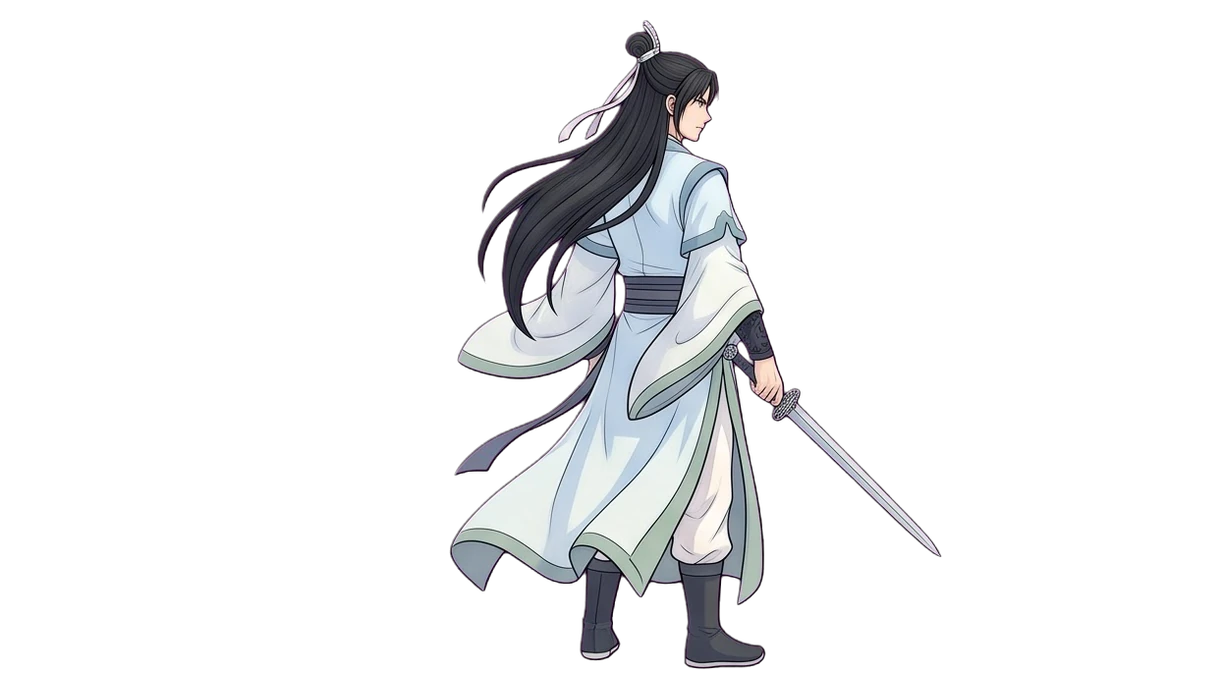
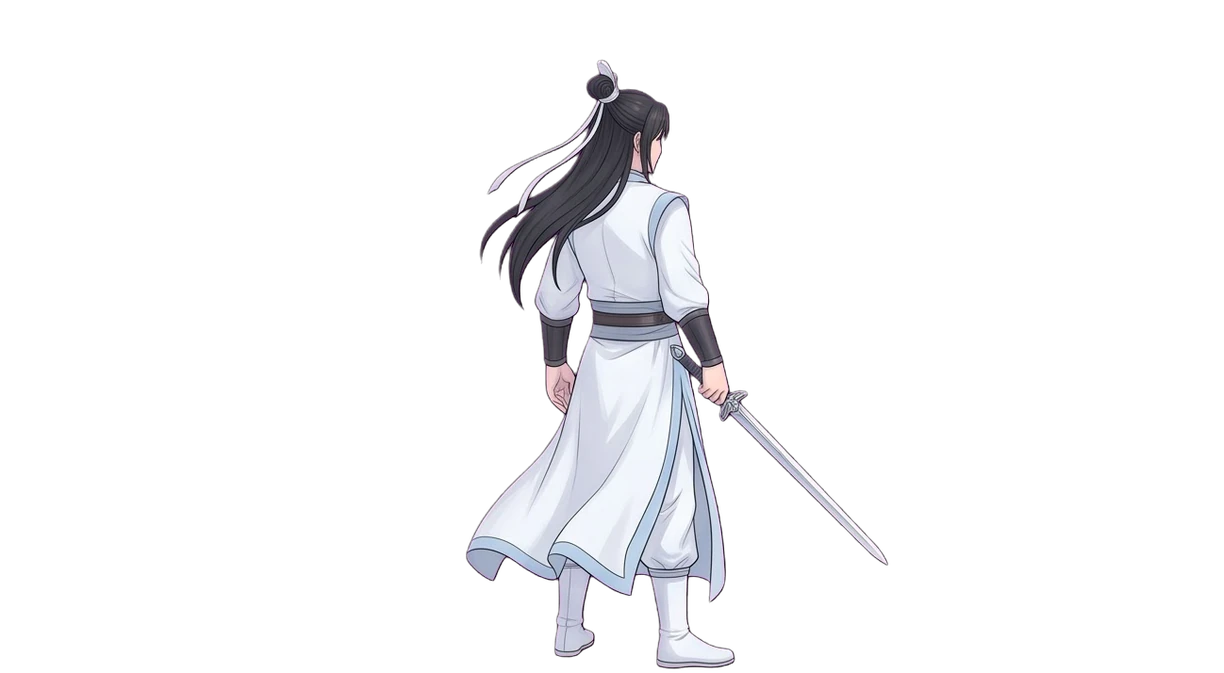
最終版133:男主四套外觀戰鬥背影、本命特寫、選招半身
Claude-Session: https://claude.ai/code/session_01Eudv1bj25nFF4NszqJcvVs

Changed region(s): [[0.3415, 0.0312, 0.7451, 0.9985], [0.7141, 0.7801, 0.7761, 0.8425]]

diff --git a/index.html b/index.html
@@ -16405,13 +16405,13 @@ window.SFX = (() => {
 })();
 
 /* v115 主角背面戰鬥動作圖(重要戰鬥用) */
-window.BP114 = {"F_o1_1": "assets/BP/F_o1_1.webp?v=845711f1", "F_o1_2": "assets/BP/F_o1_2.webp?v=63e0ea8a", "F_o1_3": "assets/BP/F_o1_3.webp?v=4c8fedf0", "F_o1_4": "assets/BP/F_o1_4.webp?v=2d3a9938", "F_o1_5": "assets/BP/F_o1_5.webp?v=39089390", "F_o1_6": "assets/BP/F_o1_6.webp?v=665fdf49", "F_o1_7": "assets/BP/F_o1_7.webp?v=a421ed48", "F_o1_8": "assets/BP/F_o1_8.webp?v=46d02e9f", "F_o1_9": "assets/BP/F_o1_9.webp?v=71e7e51b", "F_o2_1": "assets/BP/F_o2_1.webp?v=05a69ca3", "F_o2_2": "assets/BP/F_o2_2.webp?v=b4ad1367", "F_o2_3": "assets/BP/F_o2_3.webp?v=5b5c3b9e", "F_o2_4": "assets/BP/F_o2_4.webp?v=675eb247", "F_o2_5": "assets/BP/F_o2_5.webp?v=3e6b4256", "F_o2_6": "assets/BP/F_o2_6.webp?v=a83ed8f2", "F_o2_7": "assets/BP/F_o2_7.webp?v=5385903d", "F_o2_8": "assets/BP/F_o2_8.webp?v=813db133", "F_o2_9": "assets/BP/F_o2_9.webp?v=fe97a297", "F_o3_1": "assets/BP/F_o3_1.webp?v=bb0a3107", "F_o3_2": "assets/BP/F_o3_2.webp?v=427aa689", "F_o3_3": "assets/BP/F_o3_3.webp?v=85f7357a", "F_o3_4": "assets/BP/F_o3_4.webp?v=72153950", "F_o3_5": "assets/BP/F_o3_5.webp?v=667aea18", "F_o3_6": "assets/BP/F_o3_6.webp?v=0a9314ea", "F_o3_7": "assets/BP/F_o3_7.webp?v=e8cbb446", "F_o3_8": "assets/BP/F_o3_8.webp?v=b0c55eaa", "F_o3_9": "assets/BP/F_o3_9.webp?v=72363e9e", "F_o4_1": "assets/BP/F_o4_1.webp?v=0a7498b0", "F_o4_2": "assets/BP/F_o4_2.webp?v=0d6c24b1", "F_o4_3": "assets/BP/F_o4_3.webp?v=64f0bf7d", "F_o4_4": "assets/BP/F_o4_4.webp?v=ee9cef42", "F_o4_5": "assets/BP/F_o4_5.webp?v=1df47660", "F_o4_6": "assets/BP/F_o4_6.webp?v=7e19d22c", "F_o4_7": "assets/BP/F_o4_7.webp?v=23243e00", "F_o4_8": "assets/BP/F_o4_8.webp?v=41ff7a57", "F_o4_9": "assets/BP/F_o4_9.webp?v=fdd62696", "F_o5_1": "assets/BP/F_o5_1.webp?v=1acbb409", "F_o5_2": "assets/BP/F_o5_2.webp?v=057ef934", "F_o5_3": "assets/BP/F_o5_3.webp?v=8cf69a7a", "F_o5_4": "assets/BP/F_o5_4.webp?v=83b6597d", "F_o5_5": "assets/BP/F_o5_5.webp?v=2527e5a5", "F_o5_6": "assets/BP/F_o5_6.webp?v=67d0d5f1", "F_o5_7": "assets/BP/F_o5_7.webp?v=4fe41938", "F_o5_8": "assets/BP/F_o5_8.webp?v=a7d74ed8", "F_o5_9": "assets/BP/F_o5_9.webp?v=3954470c", "M_o1_1": "assets/BP/M_o1_1.webp?v=2560faa7", "M_o1_2": "assets/BP/M_o1_2.webp?v=7ad66686", "M_o1_3": "assets/BP/M_o1_3.webp?v=49844ea7", "M_o1_4": "assets/BP/M_o1_4.webp?v=e28f9fdc", "M_o1_5": "assets/BP/M_o1_5.webp?v=b9ccd80b", "M_o1_6": "assets/BP/M_o1_6.webp?v=e9083ee8", "M_o1_7": "assets/BP/M_o1_7.webp?v=58ceecdd", "M_o1_8": "assets/BP/M_o1_8.webp?v=cfe7d049", "M_o1_9": "assets/BP/M_o1_9.webp?v=c5d17e5e", "M_o2_1": "assets/BP/M_o2_1.webp?v=24d5051a", "M_o2_2": "assets/BP/M_o2_2.webp?v=11bec308", "M_o2_3": "assets/BP/M_o2_3.webp?v=3aa37fa9", "M_o2_4": "assets/BP/M_o2_4.webp?v=ae6f6207", "M_o2_5": "assets/BP/M_o2_5.webp?v=3c5e7fa2", "M_o2_6": "assets/BP/M_o2_6.webp?v=9e14adff", "M_o2_7": "assets/BP/M_o2_7.webp?v=84b7e440", "M_o2_8": "assets/BP/M_o2_8.webp?v=5128e793", "M_o2_9": "assets/BP/M_o2_9.webp?v=2efc8862"};
+window.BP114 = {"F_o1_1": "assets/BP/F_o1_1.webp?v=845711f1", "F_o1_2": "assets/BP/F_o1_2.webp?v=63e0ea8a", "F_o1_3": "assets/BP/F_o1_3.webp?v=4c8fedf0", "F_o1_4": "assets/BP/F_o1_4.webp?v=2d3a9938", "F_o1_5": "assets/BP/F_o1_5.webp?v=39089390", "F_o1_6": "assets/BP/F_o1_6.webp?v=665fdf49", "F_o1_7": "assets/BP/F_o1_7.webp?v=a421ed48", "F_o1_8": "assets/BP/F_o1_8.webp?v=46d02e9f", "F_o1_9": "assets/BP/F_o1_9.webp?v=71e7e51b", "F_o2_1": "assets/BP/F_o2_1.webp?v=05a69ca3", "F_o2_2": "assets/BP/F_o2_2.webp?v=b4ad1367", "F_o2_3": "assets/BP/F_o2_3.webp?v=5b5c3b9e", "F_o2_4": "assets/BP/F_o2_4.webp?v=675eb247", "F_o2_5": "assets/BP/F_o2_5.webp?v=3e6b4256", "F_o2_6": "assets/BP/F_o2_6.webp?v=a83ed8f2", "F_o2_7": "assets/BP/F_o2_7.webp?v=5385903d", "F_o2_8": "assets/BP/F_o2_8.webp?v=813db133", "F_o2_9": "assets/BP/F_o2_9.webp?v=fe97a297", "F_o3_1": "assets/BP/F_o3_1.webp?v=bb0a3107", "F_o3_2": "assets/BP/F_o3_2.webp?v=427aa689", "F_o3_3": "assets/BP/F_o3_3.webp?v=85f7357a", "F_o3_4": "assets/BP/F_o3_4.webp?v=72153950", "F_o3_5": "assets/BP/F_o3_5.webp?v=667aea18", "F_o3_6": "assets/BP/F_o3_6.webp?v=0a9314ea", "F_o3_7": "assets/BP/F_o3_7.webp?v=e8cbb446", "F_o3_8": "assets/BP/F_o3_8.webp?v=b0c55eaa", "F_o3_9": "assets/BP/F_o3_9.webp?v=72363e9e", "F_o4_1": "assets/BP/F_o4_1.webp?v=0a7498b0", "F_o4_2": "assets/BP/F_o4_2.webp?v=0d6c24b1", "F_o4_3": "assets/BP/F_o4_3.webp?v=64f0bf7d", "F_o4_4": "assets/BP/F_o4_4.webp?v=ee9cef42", "F_o4_5": "assets/BP/F_o4_5.webp?v=1df47660", "F_o4_6": "assets/BP/F_o4_6.webp?v=7e19d22c", "F_o4_7": "assets/BP/F_o4_7.webp?v=23243e00", "F_o4_8": "assets/BP/F_o4_8.webp?v=41ff7a57", "F_o4_9": "assets/BP/F_o4_9.webp?v=fdd62696", "F_o5_1": "assets/BP/F_o5_1.webp?v=1acbb409", "F_o5_2": "assets/BP/F_o5_2.webp?v=057ef934", "F_o5_3": "assets/BP/F_o5_3.webp?v=8cf69a7a", "F_o5_4": "assets/BP/F_o5_4.webp?v=83b6597d", "F_o5_5": "assets/BP/F_o5_5.webp?v=2527e5a5", "F_o5_6": "assets/BP/F_o5_6.webp?v=67d0d5f1", "F_o5_7": "assets/BP/F_o5_7.webp?v=4fe41938", "F_o5_8": "assets/BP/F_o5_8.webp?v=a7d74ed8", "F_o5_9": "assets/BP/F_o5_9.webp?v=3954470c", "M_o1_1": "assets/BP/M_o1_1.webp?v=2560faa7", "M_o1_2": "assets/BP/M_o1_2.webp?v=7ad66686", "M_o1_3": "assets/BP/M_o1_3.webp?v=49844ea7", "M_o1_4": "assets/BP/M_o1_4.webp?v=e28f9fdc", "M_o1_5": "assets/BP/M_o1_5.webp?v=b9ccd80b", "M_o1_6": "assets/BP/M_o1_6.webp?v=e9083ee8", "M_o1_7": "assets/BP/M_o1_7.webp?v=58ceecdd", "M_o1_8": "assets/BP/M_o1_8.webp?v=cfe7d049", "M_o1_9": "assets/BP/M_o1_9.webp?v=c5d17e5e", "M_o2_1": "assets/BP/M_o2_1.webp?v=a457cddd", "M_o2_2": "assets/BP/M_o2_2.webp?v=5350cd1f", "M_o2_3": "assets/BP/M_o2_3.webp?v=9923ac77", "M_o2_4": "assets/BP/M_o2_4.webp?v=54d8b4cd", "M_o2_5": "assets/BP/M_o2_5.webp?v=7b33d424", "M_o2_6": "assets/BP/M_o2_6.webp?v=99974fd4", "M_o2_7": "assets/BP/M_o2_7.webp?v=9e35d3f7", "M_o2_8": "assets/BP/M_o2_8.webp?v=010e2f77", "M_o2_9": "assets/BP/M_o2_9.webp?v=9e51febd", "M_o3_1": "assets/BP/M_o3_1.webp?v=911e0148", "M_o3_2": "assets/BP/M_o3_2.webp?v=d49ff3b7", "M_o3_3": "assets/BP/M_o3_3.webp?v=70fd962f", "M_o3_4": "assets/BP/M_o3_4.webp?v=10baf48d", "M_o3_5": "assets/BP/M_o3_5.webp?v=64e0e325", "M_o3_6": "assets/BP/M_o3_6.webp?v=c2438bd5", "M_o3_7": "assets/BP/M_o3_7.webp?v=a6ce3d23", "M_o3_8": "assets/BP/M_o3_8.webp?v=c9752f83", "M_o3_9": "assets/BP/M_o3_9.webp?v=a1af0ada", "M_o4_1": "assets/BP/M_o4_1.webp?v=43ac3c38", "M_o4_2": "assets/BP/M_o4_2.webp?v=f512e93b", "M_o4_3": "assets/BP/M_o4_3.webp?v=651f67c3", "M_o4_4": "assets/BP/M_o4_4.webp?v=5e0b1883", "M_o4_5": "assets/BP/M_o4_5.webp?v=9e77acc4", "M_o4_6": "assets/BP/M_o4_6.webp?v=6ed9a474", "M_o4_7": "assets/BP/M_o4_7.webp?v=5427d33a", "M_o4_8": "assets/BP/M_o4_8.webp?v=c0be0eb9", "M_o4_9": "assets/BP/M_o4_9.webp?v=22d5c0e4", "M_o5_1": "assets/BP/M_o5_1.webp?v=2e970d7d", "M_o5_2": "assets/BP/M_o5_2.webp?v=ded257bf", "M_o5_3": "assets/BP/M_o5_3.webp?v=4af86b3b", "M_o5_4": "assets/BP/M_o5_4.webp?v=10635597", "M_o5_5": "assets/BP/M_o5_5.webp?v=b3438832", "M_o5_6": "assets/BP/M_o5_6.webp?v=132388bd", "M_o5_7": "assets/BP/M_o5_7.webp?v=24d3b448", "M_o5_8": "assets/BP/M_o5_8.webp?v=68e0ee4d", "M_o5_9": "assets/BP/M_o5_9.webp?v=ceae38ce"};
 
 /* v122 本命絕學過場特寫 */
-window.UC121 = {"F_sword": "assets/UC/F_sword.webp?v=d6b677e1", "F_magic": "assets/UC/F_magic.webp?v=c86b9151", "F_body": "assets/UC/F_body.webp?v=ed430cdf", "F_pill": "assets/UC/F_pill.webp?v=a4586067", "F_o2_sword": "assets/UC/F_o2_sword.webp?v=df65fb9d", "F_o2_magic": "assets/UC/F_o2_magic.webp?v=ee4d66b8", "F_o2_body": "assets/UC/F_o2_body.webp?v=b3b2b16c", "F_o2_pill": "assets/UC/F_o2_pill.webp?v=f8ec9a1b", "F_o3_sword": "assets/UC/F_o3_sword.webp?v=70c4c692", "F_o3_magic": "assets/UC/F_o3_magic.webp?v=b4d94d57", "F_o3_body": "assets/UC/F_o3_body.webp?v=fbb4ddd4", "F_o3_pill": "assets/UC/F_o3_pill.webp?v=cf52e338", "F_o4_sword": "assets/UC/F_o4_sword.webp?v=fef98040", "F_o4_magic": "assets/UC/F_o4_magic.webp?v=020c8609", "F_o4_body": "assets/UC/F_o4_body.webp?v=df527030", "F_o4_pill": "assets/UC/F_o4_pill.webp?v=be557bbf", "F_o5_sword": "assets/UC/F_o5_sword.webp?v=6403e1ea", "F_o5_magic": "assets/UC/F_o5_magic.webp?v=ef6c83a6", "F_o5_body": "assets/UC/F_o5_body.webp?v=8b405bbd", "F_o5_pill": "assets/UC/F_o5_pill.webp?v=0b16eaee", "M_sword": "assets/UC/M_sword.webp?v=e231c3ac", "M_magic": "assets/UC/M_magic.webp?v=1e32114b", "M_body": "assets/UC/M_body.webp?v=5d231bd2", "M_pill": "assets/UC/M_pill.webp?v=a7f87dd1"};
+window.UC121 = {"F_sword": "assets/UC/F_sword.webp?v=d6b677e1", "F_magic": "assets/UC/F_magic.webp?v=c86b9151", "F_body": "assets/UC/F_body.webp?v=ed430cdf", "F_pill": "assets/UC/F_pill.webp?v=a4586067", "F_o2_sword": "assets/UC/F_o2_sword.webp?v=df65fb9d", "F_o2_magic": "assets/UC/F_o2_magic.webp?v=ee4d66b8", "F_o2_body": "assets/UC/F_o2_body.webp?v=b3b2b16c", "F_o2_pill": "assets/UC/F_o2_pill.webp?v=f8ec9a1b", "F_o3_sword": "assets/UC/F_o3_sword.webp?v=70c4c692", "F_o3_magic": "assets/UC/F_o3_magic.webp?v=b4d94d57", "F_o3_body": "assets/UC/F_o3_body.webp?v=fbb4ddd4", "F_o3_pill": "assets/UC/F_o3_pill.webp?v=cf52e338", "F_o4_sword": "assets/UC/F_o4_sword.webp?v=fef98040", "F_o4_magic": "assets/UC/F_o4_magic.webp?v=020c8609", "F_o4_body": "assets/UC/F_o4_body.webp?v=df527030", "F_o4_pill": "assets/UC/F_o4_pill.webp?v=be557bbf", "F_o5_sword": "assets/UC/F_o5_sword.webp?v=6403e1ea", "F_o5_magic": "assets/UC/F_o5_magic.webp?v=ef6c83a6", "F_o5_body": "assets/UC/F_o5_body.webp?v=8b405bbd", "F_o5_pill": "assets/UC/F_o5_pill.webp?v=0b16eaee", "M_sword": "assets/UC/M_sword.webp?v=e231c3ac", "M_magic": "assets/UC/M_magic.webp?v=1e32114b", "M_body": "assets/UC/M_body.webp?v=5d231bd2", "M_pill": "assets/UC/M_pill.webp?v=a7f87dd1", "M_o2_sword": "assets/UC/M_o2_sword.webp?v=64df1a3e", "M_o2_magic": "assets/UC/M_o2_magic.webp?v=3baf01be", "M_o2_body": "assets/UC/M_o2_body.webp?v=7f35e2b8", "M_o2_pill": "assets/UC/M_o2_pill.webp?v=f527eb9c", "M_o3_sword": "assets/UC/M_o3_sword.webp?v=95c1a4f8", "M_o3_magic": "assets/UC/M_o3_magic.webp?v=07ad8fdc", "M_o3_body": "assets/UC/M_o3_body.webp?v=d1552fea", "M_o3_pill": "assets/UC/M_o3_pill.webp?v=02c07c52", "M_o4_sword": "assets/UC/M_o4_sword.webp?v=e6fdcb5a", "M_o4_magic": "assets/UC/M_o4_magic.webp?v=0733c81d", "M_o4_body": "assets/UC/M_o4_body.webp?v=9c3ac2a6", "M_o4_pill": "assets/UC/M_o4_pill.webp?v=95c1f1e4", "M_o5_sword": "assets/UC/M_o5_sword.webp?v=927d7bf3", "M_o5_magic": "assets/UC/M_o5_magic.webp?v=2b4b559d", "M_o5_body": "assets/UC/M_o5_body.webp?v=b5d37617", "M_o5_pill": "assets/UC/M_o5_pill.webp?v=e087a6a8"};
 
 /* v124 選招面板主角半身(n=戰意 h=負傷) */
-window.CP124 = {"F_n": "assets/CP/F_n.webp?v=fdc6f39c", "F_h": "assets/CP/F_h.webp?v=7e210eae", "F_o2_n": "assets/CP/F_o2_n.webp?v=e711bcaf", "F_o2_h": "assets/CP/F_o2_h.webp?v=2235eaa4", "F_o3_n": "assets/CP/F_o3_n.webp?v=236ff229", "F_o3_h": "assets/CP/F_o3_h.webp?v=c0f0032c", "F_o4_n": "assets/CP/F_o4_n.webp?v=56ca2308", "F_o4_h": "assets/CP/F_o4_h.webp?v=a4349275", "F_o5_n": "assets/CP/F_o5_n.webp?v=ed7b5050", "F_o5_h": "assets/CP/F_o5_h.webp?v=5eaf709b", "M_n": "assets/CP/M_n.webp?v=ed336fd6", "M_h": "assets/CP/M_h.webp?v=dda6f675"};
+window.CP124 = {"F_n": "assets/CP/F_n.webp?v=fdc6f39c", "F_h": "assets/CP/F_h.webp?v=7e210eae", "F_o2_n": "assets/CP/F_o2_n.webp?v=e711bcaf", "F_o2_h": "assets/CP/F_o2_h.webp?v=2235eaa4", "F_o3_n": "assets/CP/F_o3_n.webp?v=236ff229", "F_o3_h": "assets/CP/F_o3_h.webp?v=c0f0032c", "F_o4_n": "assets/CP/F_o4_n.webp?v=56ca2308", "F_o4_h": "assets/CP/F_o4_h.webp?v=a4349275", "F_o5_n": "assets/CP/F_o5_n.webp?v=ed7b5050", "F_o5_h": "assets/CP/F_o5_h.webp?v=5eaf709b", "M_n": "assets/CP/M_n.webp?v=ed336fd6", "M_h": "assets/CP/M_h.webp?v=dda6f675", "M_o2_n": "assets/CP/M_o2_n.webp?v=7235f10f", "M_o2_h": "assets/CP/M_o2_h.webp?v=31199bd4", "M_o3_n": "assets/CP/M_o3_n.webp?v=bf1c829c", "M_o3_h": "assets/CP/M_o3_h.webp?v=df126686", "M_o4_n": "assets/CP/M_o4_n.webp?v=00fd78be", "M_o4_h": "assets/CP/M_o4_h.webp?v=0f176dc1", "M_o5_n": "assets/CP/M_o5_n.webp?v=8dd99809", "M_o5_h": "assets/CP/M_o5_h.webp?v=73886cb5"};
 
 /* v124 QTE 按鈕美術 */
 window.QT124 = {"dot": "assets/QT/dot.webp?v=beeeb71c", "tg": "assets/QT/tg.webp?v=89ea0a29", "ring": "assets/QT/ring.webp?v=6545ff9d", "hold": "assets/QT/hold.webp?v=80bfbbe7", "holdring": "assets/QT/holdring.webp?v=6274733f", "burst": "assets/QT/burst.webp?v=fffaf725", "zone": "assets/QT/zone.webp?v=5a34e686", "needle": "assets/QT/needle.webp?v=d9baf715", "track": "assets/QT/track.webp?v=8f008610", "sh": "assets/QT/sh.webp?v=1b17af1c", "sh2": "assets/QT/sh2.webp?v=c0fac47b"};
@@ -16449,7 +16449,7 @@ window.QT124 = {"dot": "assets/QT/dot.webp?v=beeeb71c", "tg": "assets/QT/tg.webp
   const BPX = window.BP114 || {};
   const pose = n => { const g = state.gender === 'f' ? 'F_' : 'M_', lk = state.look || 'o1'; return BPX[g + lk + '_' + n] || BPX[g + 'o1_' + n] || ''; };
   /* 各出招動作的「劍尖附近」在圖框內的位置(由圖自動量出;其他外觀暫用新手服的值) */
-  const TIPS = { F_o1_2: [.906, .191], F_o1_3: [.776, .413], F_o1_8: [.965, .038], M_o1_2: [.82, .533], M_o1_3: [.702, .144], M_o1_8: [.966, .053], M_o2_2: [.998, .159], M_o2_3: [.379, .263], M_o2_8: [.908, .25], F_o2_2: [.969, .167], F_o2_3: [.546, .39], F_o2_8: [.421, .208], F_o3_2: [.968, .167], F_o3_3: [.548, .39], F_o3_8: [.421, .208], F_o4_2: [.967, .168], F_o4_3: [.546, .39], F_o4_8: [.421, .208], F_o5_2: [.981, .168], F_o5_3: [.548, .39], F_o5_8: [.421, .208] };
+  const TIPS = { F_o1_2: [.906, .191], F_o1_3: [.776, .413], F_o1_8: [.965, .038], M_o1_2: [.82, .533], M_o1_3: [.702, .144], M_o1_8: [.966, .053], M_o2_2: [.942, .207], M_o2_3: [.584, .263], M_o2_8: [.998, .107], M_o3_2: [.949, .198], M_o3_3: [.618, .257], M_o3_8: [.998, .098], M_o4_2: [.949, .199], M_o4_3: [.588, .257], M_o4_8: [.998, .095], M_o5_2: [.948, .199], M_o5_3: [.619, .26], M_o5_8: [.998, .097], F_o2_2: [.969, .167], F_o2_3: [.546, .39], F_o2_8: [.421, .208], F_o3_2: [.968, .167], F_o3_3: [.548, .39], F_o3_8: [.421, .208], F_o4_2: [.967, .168], F_o4_3: [.546, .39], F_o4_8: [.421, .208], F_o5_2: [.981, .168], F_o5_3: [.548, .39], F_o5_8: [.421, .208] };
   const tip = n => { const g = state.gender === 'f' ? 'F_' : 'M_'; return TIPS[g + (state.look || 'o1') + '_' + n] || TIPS[g + 'o1_' + n] || [.6, .35]; };
   const ULTC = { '劍氣縱橫': '#bfe3ff', '五行法陣': '#c4b5fd', '金身怒目': '#fcd34d', '丹爐煉化': '#fb923c' };
   let poseT = 0;
